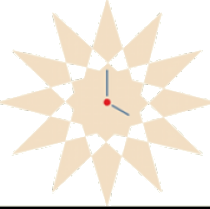
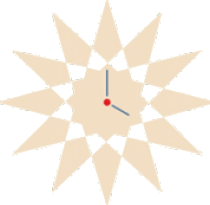
Keep the cream color on an A4 résumé sheet.
The page around the sheet uses the same gray as the section rules. Graduation dates are gone, the undergraduate degree reads B.Tech. IT/Computer Science, the site link is sidbhagwan.com, and the line under the Revealing Hour logo is removed.

diff --git a/resume/index.html b/resume/index.html
@@ -55,13 +55,13 @@
           </a>
         </li>
         <li>
-          <a href="http://coderbear.com">
+          <a href="https://sidbhagwan.com">
             <svg viewBox="0 0 16 16" aria-hidden="true">
               <path
                 d="M8 1a7 7 0 1 0 0 14A7 7 0 0 0 8 1zm5.6 6.2h-2.2a11.2 11.2 0 0 0-1.1-4.3 5.6 5.6 0 0 1 3.3 4.3zM8 2.4c.7.9 1.3 2.3 1.6 4H6.4c.3-1.7.9-3.1 1.6-4zM2.4 8.8a5.6 5.6 0 0 1 0-1.6h2.3c-.1.5-.1 1.1 0 1.6H2.4zm.0-2.4a5.6 5.6 0 0 1 3.3-4.3 11.2 11.2 0 0 0-1.1 4.3H2.4zm3.3 2.4c.1.6.2 1.1.4 1.6h4c.2-.5.3-1 .4-1.6H5.7zm4.8 0c-.1.5-.1 1.1 0 1.6h2.3a5.6 5.6 0 0 1 0-1.6h-2.3zM8 13.6c-.7-.9-1.3-2.3-1.6-4h3.2c-.3 1.7-.9 3.1-1.6 4zm2.3-.5a11.2 11.2 0 0 0 1.1-4.3h2.2a5.6 5.6 0 0 1-3.3 4.3zM5.7 13.1a5.6 5.6 0 0 1-3.3-4.3h2.2c.2 1.6.6 3 1.1 4.3z"
               />
             </svg>
-            <span>http://coderbear.com</span>
+            <span>sidbhagwan.com</span>
           </a>
         </li>
       </ul>
@@ -77,12 +77,10 @@
         <div>
           <h3>M.S. Human Computer Interaction</h3>
           <p>University of Maryland, College Park, U.S.</p>
-          <p>May 2018</p>
         </div>
         <div>
-          <h3>B.Tech. Computer Science</h3>
+          <h3>B.Tech. IT/Computer Science</h3>
           <p>PEC University of Technology, India</p>
-          <p>May 2010</p>
         </div>
       </section>
 

diff --git a/css/resume.css b/css/resume.css
@@ -12,7 +12,7 @@ html,
 body {
   margin: 0;
   padding: 0;
-  background: var(--paper);
+  background: var(--rule);
   color: var(--ink);
 }
 
@@ -35,9 +35,11 @@ a:focus-visible {
 }
 
 .sheet {
-  max-width: 796px;
-  margin: 0 auto;
-  padding: 22px 23px 56px;
+  width: min(210mm, calc(100% - 28px));
+  min-height: 297mm;
+  margin: 14px auto;
+  padding: 14mm 12mm 14mm;
+  background: var(--paper);
 }
 
 .home {
@@ -89,7 +91,7 @@ h1 {
 
 .education {
   display: grid;
-  grid-template-columns: 1.7fr 1fr;
+  grid-template-columns: 1fr 1fr;
   column-gap: 32px;
 }
 
@@ -140,7 +142,7 @@ h1 {
 }
 
 .logo.rhc {
-  height: 64px;
+  height: 52px;
 }
 
 .logo.ibm {
@@ -181,6 +183,9 @@ h1 {
 
 @media (max-width: 700px) {
   .sheet {
+    width: calc(100% - 16px);
+    min-height: 0;
+    margin: 8px auto;
     padding: 18px 16px 40px;
   }
 
@@ -218,7 +223,9 @@ h1 {
   }
 
   .sheet {
-    max-width: none;
+    width: auto;
+    min-height: 0;
+    margin: 0;
     padding: 0;
   }
 
